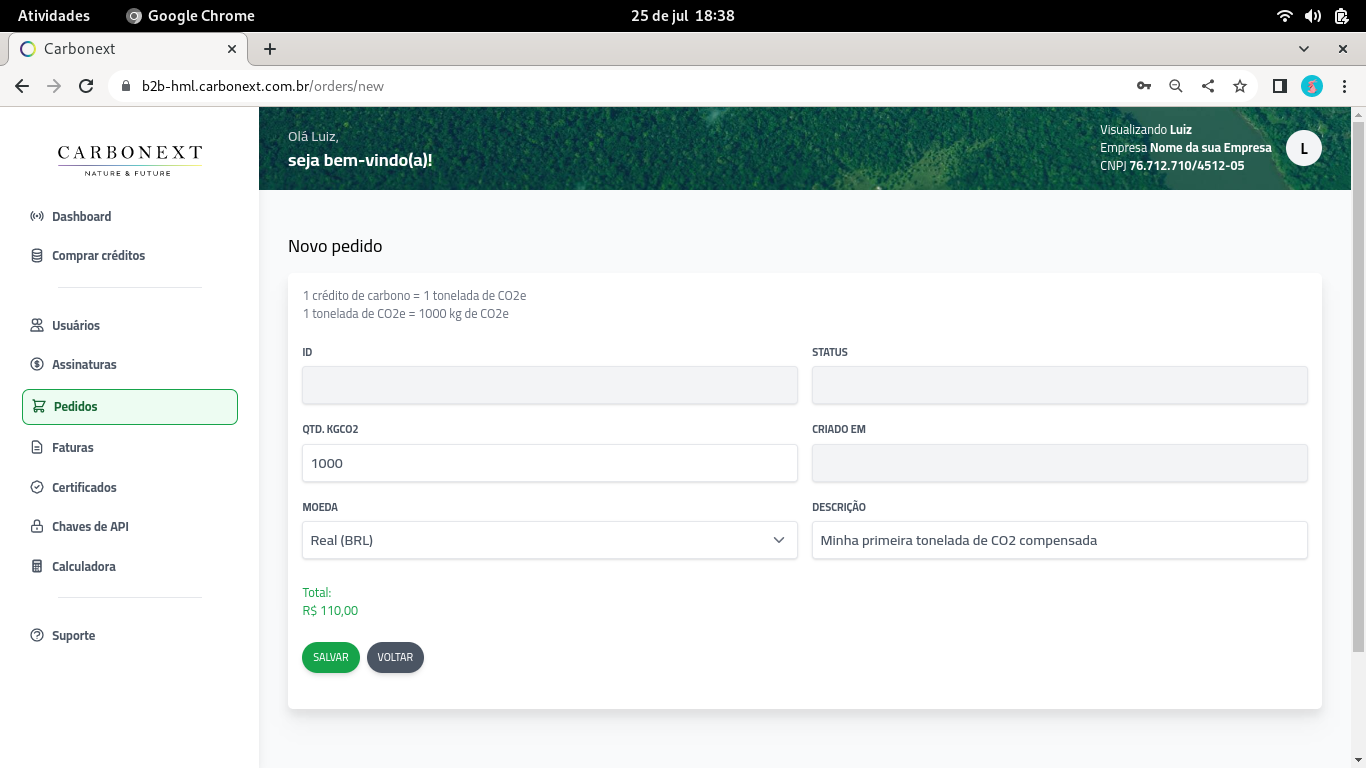
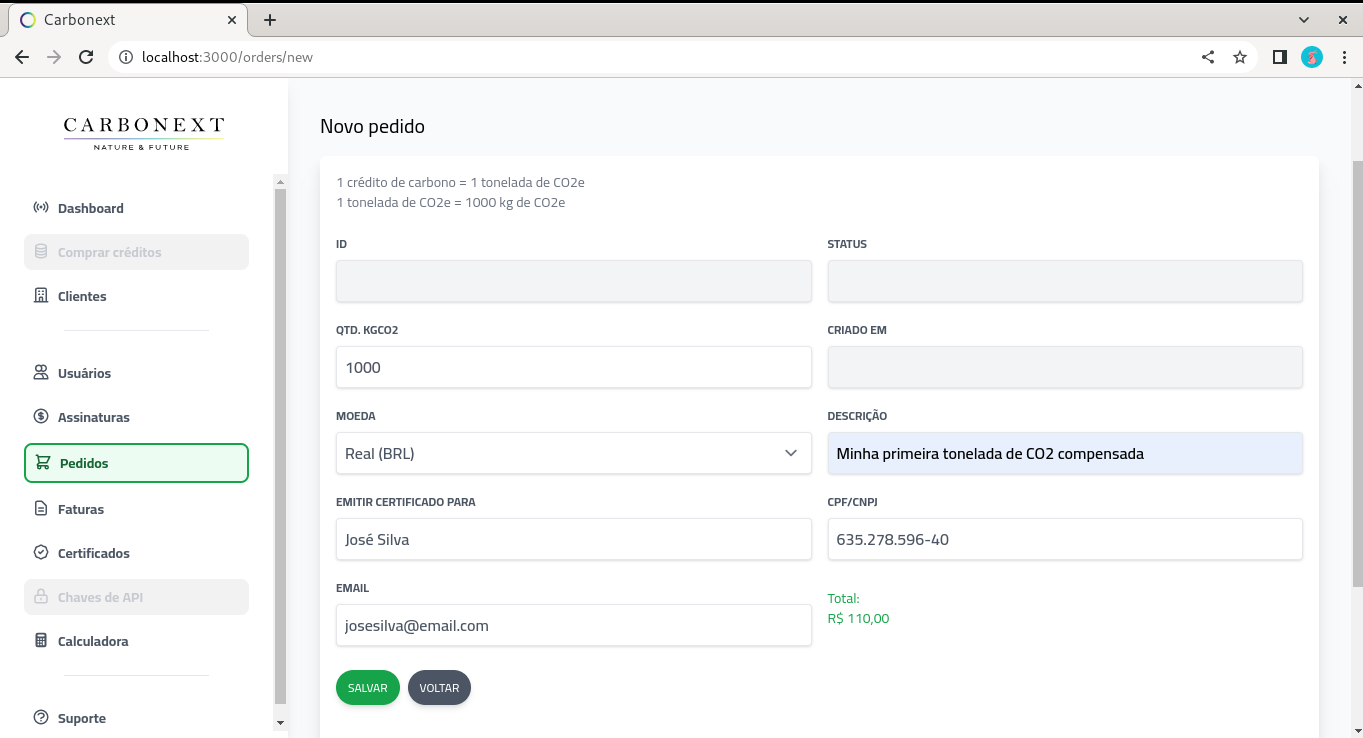
chore: review image and text to credencial's

diff --git a/i18n/pt-BR/docusaurus-plugin-content-docs/current/orders.md b/i18n/pt-BR/docusaurus-plugin-content-docs/current/orders.md
@@ -21,7 +21,7 @@ Esta requisição irá criar um pedido.
 | -------------- | ------------------------------------------------------------------------------------------------------------------------------------------------------------------- |
 | vcuAmount      | A quantidade de VCUs atribuída ao pedido                                                                                                                            |
 | targetCurrency | A moeda desejada para o pedido a ser cobrado                                                                                                                        |
-| certificateRecipientInfo | Informações da pessoa para quem o certificado será emitido |
+| certificateRecipientInfo | Informações da pessoa para quem o certificado será emitido, se não for preenchido será emitido com dados de sua empresa |
 | metaData       | Informações adicionais do pedido |
 
 | CertificateRecipientInfo      | Descrição                                         |

diff --git a/i18n/pt-BR/docusaurus-plugin-content-docs/current/getting-started/signing-up.md b/i18n/pt-BR/docusaurus-plugin-content-docs/current/getting-started/signing-up.md
@@ -82,7 +82,7 @@ Você fará um pedido sempre que precisar neutralizar uma quantidade de carbono 
 
 ![Example Site](/img/examples/signing_up_ptBR_10.png)
 
-Preencha a quantidade CO2 consumida no período, escolha a moeda, dê uma descrição e então clique em `SALVAR`.
+Preencha a quantidade CO2 consumida no período, escolha a moeda, dê uma descrição e então clique em `SALVAR`, se quiser gerar o certificado para outra empresa ou pessoa física preencha os campos "EMITIR CERTIFICADO PARA", "CPF/CNPJ" e "EMAIL", se esses campos ficarem vazios o certificado será emitido para a empresa cadastrada.
 
 ![Example Site](/img/examples/signing_up_ptBR_11.png)
 
